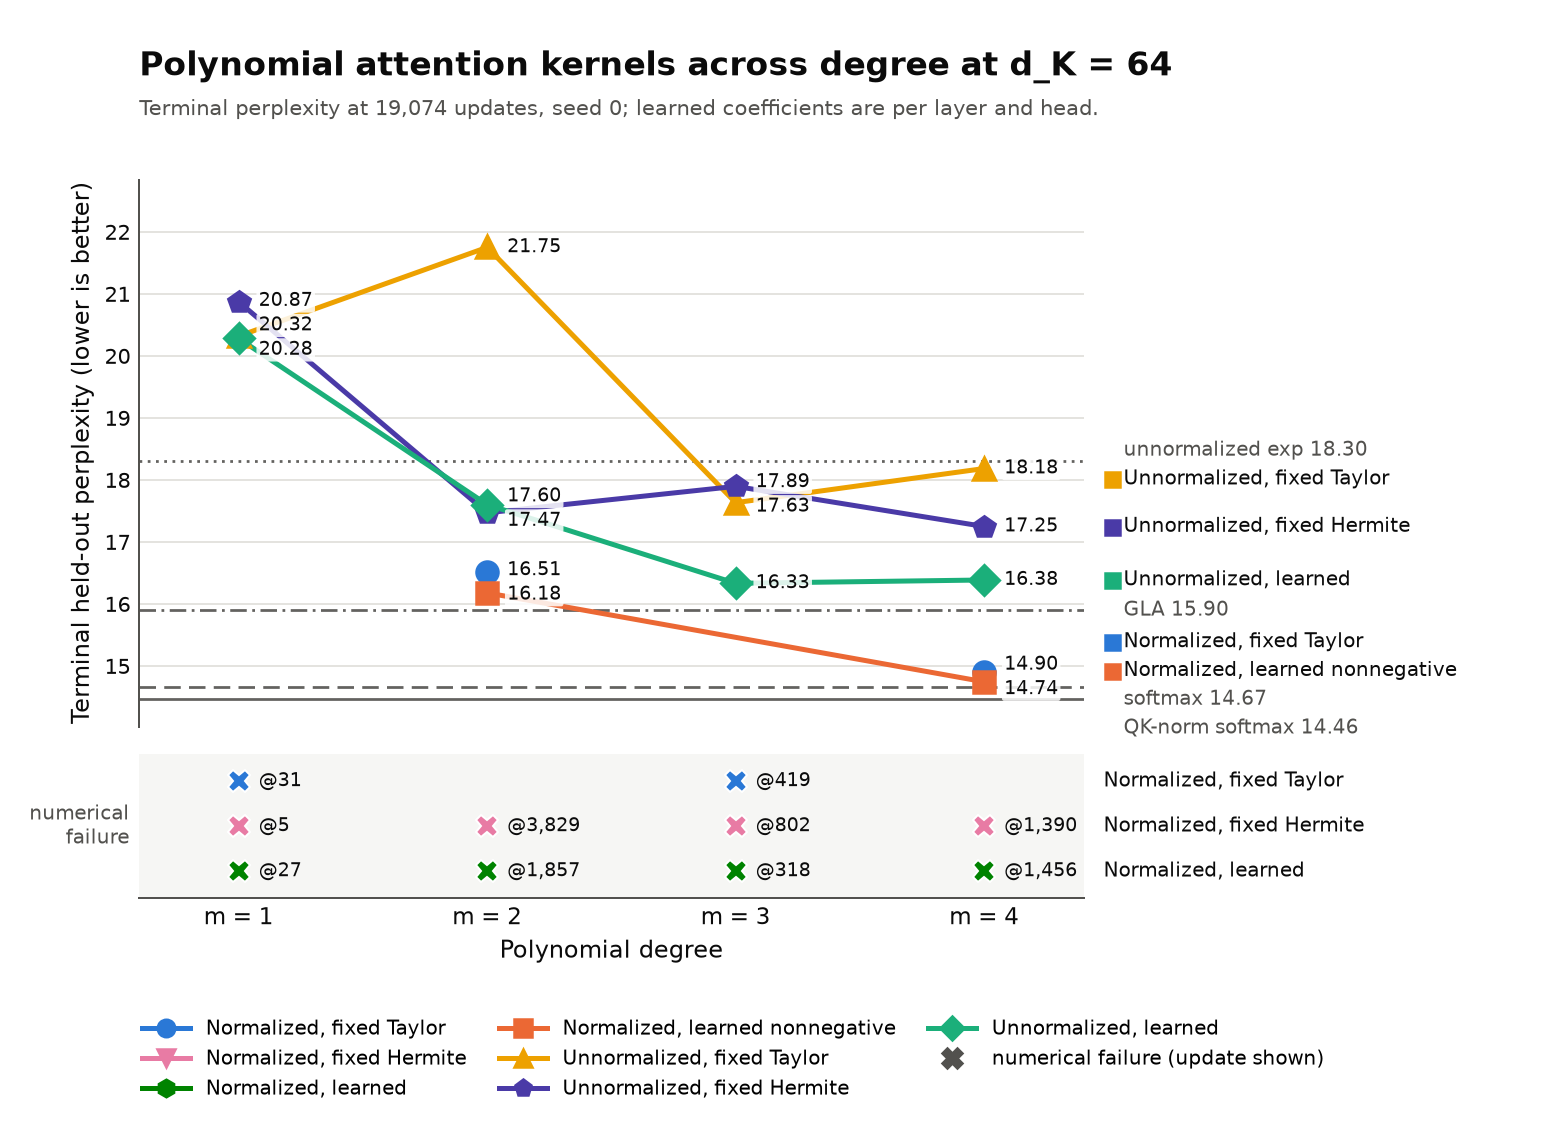
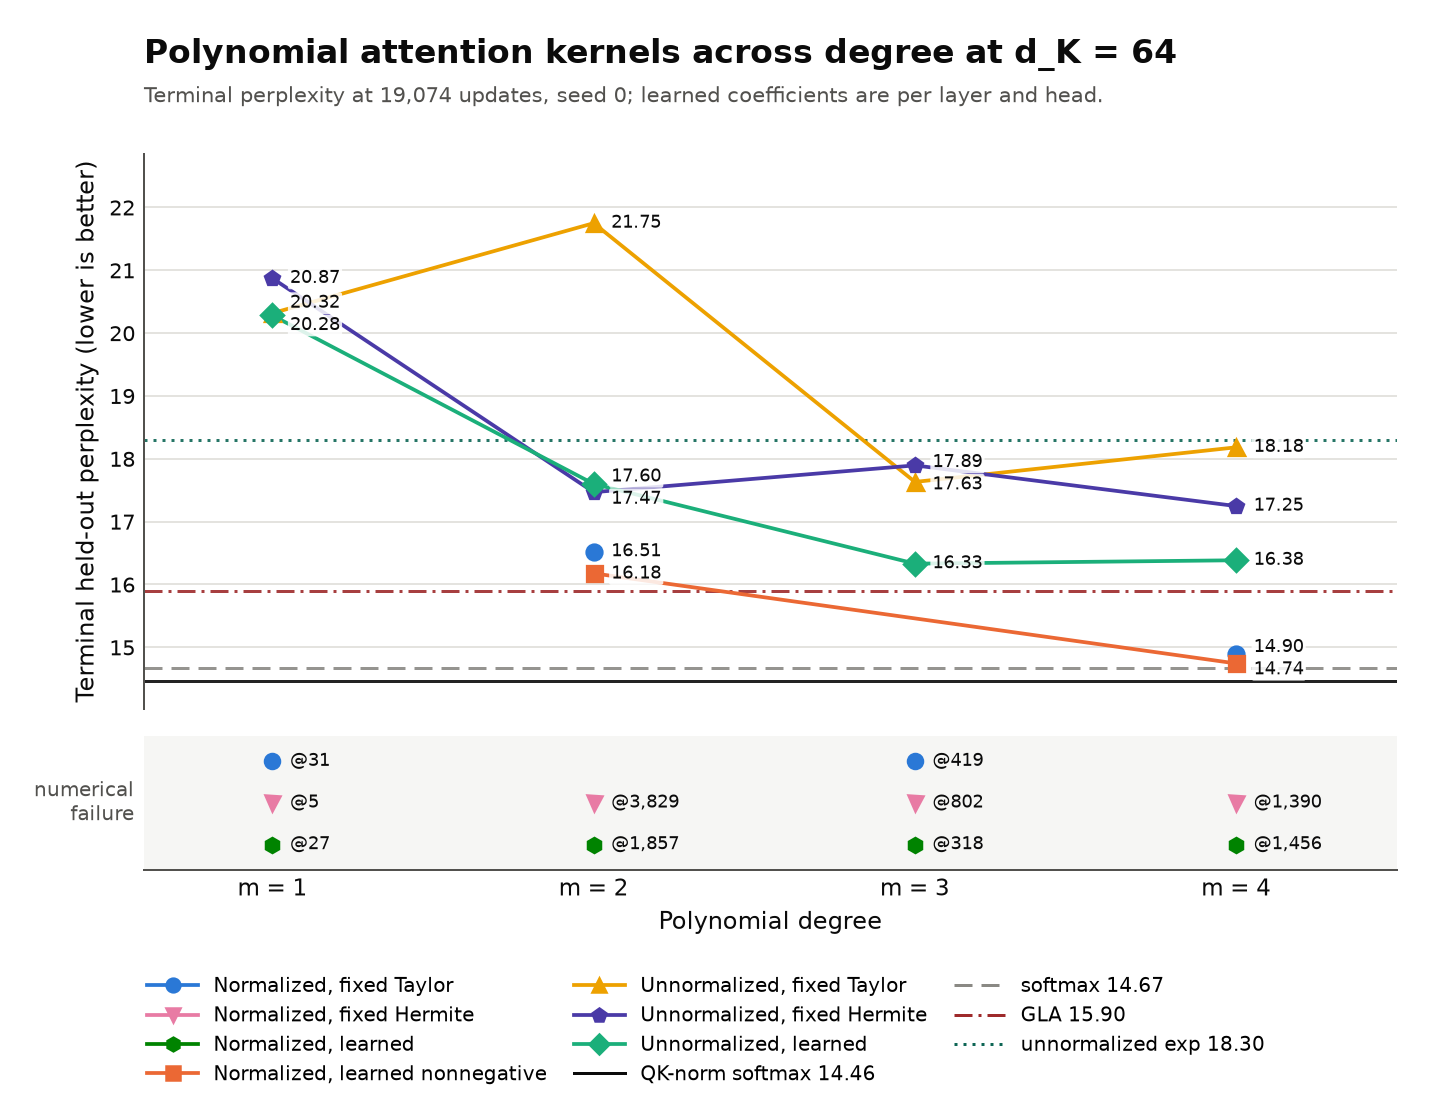
Declutter the degree chart: thinner marks, one legend, colored references
Lines and markers are thinner and smaller. Families and reference
levels are labeled once, in the legend below the chart, instead of in a
right margin, so the axis uses the full width. Reference levels get
distinct dark colors outside the family slots (black, gray, dark red,
dark teal) with their own dashes, and list their values in the legend.
Failures in the strip use their family's marker.

diff --git a/results/attention_scaling/chart.py b/results/attention_scaling/chart.py
@@ -33,8 +33,9 @@ FAMILY_STYLE = {
     "unnormalized_fixed_hermite": ("#4a3aa7", "p"),
 }
 INK, MUTED, GRID, SURFACE = "#0b0b0b", "#52514e", "#e4e3df", "#ffffff"
-REFERENCE_STYLE = {"softmax": "-", "softmax_no_qk_norm": (0, (6, 3)), "unnormalized_exp": (0, (1, 2)),
-                   "gla": (0, (6, 2, 1, 2))}
+# Reference levels: dark hues outside the family slots, each with its own dash as a second cue.
+REFERENCE_STYLE = {"softmax": ("#0b0b0b", "-"), "softmax_no_qk_norm": ("#8a8984", (0, (6, 3))),
+                   "gla": ("#9e2a2b", (0, (6, 2, 1, 2))), "unnormalized_exp": ("#0e6655", (0, (1, 2)))}
 
 
 def _degree(column_id: str) -> int:
@@ -78,37 +79,40 @@ def _build_figure(rows: list[dict], config: dict):
     """Build the figure; kept separate from saving for layout tests."""
     grouped = _by_panel(rows, config)
     families = [panel for panel in config["panels"] if panel["id"] != REFERENCE_PANEL]
-    titles = {panel["id"]: panel["title"] for panel in config["panels"]}
     references = [row for row in grouped.get(REFERENCE_PANEL, []) if row["status"] == "complete"]
     reference_labels = {column["id"]: column["label"]
                         for panel in config["panels"] if panel["id"] == REFERENCE_PANEL for column in panel["columns"]}
     degrees = sorted({_degree(column["id"]) for panel in families for column in panel["columns"]})
-    failures = [(panel["id"], row) for panel in families for row in grouped[panel["id"]]
-                if row["status"] == "numerical_failure"]
     failure_families = [panel["id"] for panel in families
-                        if any(family == panel["id"] for family, _ in failures)]
+                        if any(row["status"] == "numerical_failure" for row in grouped[panel["id"]])]
+    any_legacy = any(row.get("legacy") for row in rows if row["status"] == "complete")
 
     values = [float(row["terminal_ppl"]) for row in rows if row["status"] == "complete"]
     lower, upper = (min(values), max(values)) if values else (0.0, 1.0)
     pad = 0.06 * (upper - lower or 1.0)
 
     strip_rows = max(len(failure_families), 1)
-    figure = plt.figure(figsize=(8.6, 5.4 + 0.28 * strip_rows), facecolor=SURFACE)
-    grid = figure.add_gridspec(2, 1, height_ratios=(5.2, 0.34 * strip_rows + 0.35), hspace=0.08,
-                               left=0.09, right=0.70, top=0.84, bottom=0.2)
+    figure = plt.figure(figsize=(8.0, 5.5 + 0.22 * strip_rows), facecolor=SURFACE)
+    grid = figure.add_gridspec(2, 1, height_ratios=(5.2, 0.3 * strip_rows + 0.35), hspace=0.08,
+                               left=0.1, right=0.97, top=0.86, bottom=0.215)
     axis = figure.add_subplot(grid[0])
     axis.set_gid("chart:perplexity")
     strip = figure.add_subplot(grid[1], sharex=axis)
     strip.set_gid("chart:failures")
 
-    margin_labels: list[tuple[float, str, str, str | None]] = []  # (level, text, text color, marker color)
+    handles = []
+    for panel in families:
+        family = panel["id"]
+        color, marker = FAMILY_STYLE[family]
+        handles.append(Line2D([], [], color=color, marker=marker, linewidth=1.5, markersize=5.5, label=panel["title"]))
     for row in references:
         level = float(row["terminal_ppl"])
         legacy = bool(row.get("legacy"))
-        axis.axhline(level, color=MUTED, linewidth=1.1, linestyle=REFERENCE_STYLE.get(row["column"], "-"),
-                     alpha=0.55 if legacy else 0.9, zorder=1, gid=f"reference:{row['column']}")
+        color, dash = REFERENCE_STYLE.get(row["column"], (MUTED, "-"))
+        axis.axhline(level, color=color, linewidth=1.2, linestyle=dash, alpha=0.5 if legacy else 0.9,
+                     zorder=1, gid=f"reference:{row['column']}")
         label = f"{reference_labels.get(row['column'], row['column'])} {level:.2f}" + (" (legacy)" if legacy else "")
-        margin_labels.append((level, label, MUTED, None))
+        handles.append(Line2D([], [], color=color, linewidth=1.2, linestyle=dash, label=label))
 
     value_labels: dict[int, list[float]] = {}
     for panel in families:
@@ -120,49 +124,38 @@ def _build_figure(rows: list[dict], config: dict):
         for (x0, y0, legacy0), (x1, y1, legacy1) in zip(points, points[1:]):
             if any(x0 < degree < x1 for degree in declared):  # never bridge a failed or missing degree
                 continue
-            axis.plot([x0, x1], [y0, y1], color=color, linewidth=2, zorder=2, solid_capstyle="round",
+            axis.plot([x0, x1], [y0, y1], color=color, linewidth=1.5, zorder=2, solid_capstyle="round",
                       linestyle=(0, (4, 3)) if legacy0 or legacy1 else "-")
         for x, y, legacy in points:
-            axis.plot([x], [y], marker=marker, markersize=8, color=color, markeredgecolor=color,
-                      markerfacecolor=SURFACE if legacy else color, markeredgewidth=1.8, linestyle="none",
+            axis.plot([x], [y], marker=marker, markersize=6, color=color, markeredgecolor=color,
+                      markerfacecolor=SURFACE if legacy else color, markeredgewidth=1.3, linestyle="none",
                       zorder=3, gid=f"point:{family}:m{x}:{'legacy' if legacy else 'current'}")
             value_labels.setdefault(x, []).append(y)
-        if points:
-            margin_labels.append((points[-1][1], titles[family], INK, color))
 
+    # Failures take their family's marker, so the legend identifies each strip row.
     for index, family in enumerate(failure_families):
-        color, _ = FAMILY_STYLE[family]
+        color, marker = FAMILY_STYLE[family]
         y = len(failure_families) - 1 - index
-        strip.annotate(titles[family], (1.0, y), xycoords=("axes fraction", "data"), xytext=(8, 0),
-                       textcoords="offset points", va="center", fontsize=8, color=INK)
-        for failed_family, row in failures:
-            if failed_family != family:
+        for row in grouped[family]:
+            if row["status"] != "numerical_failure":
                 continue
             x = _degree(row["column"])
-            strip.plot([x], [y], marker="X", markersize=9, color=color, markeredgecolor=SURFACE,
-                       markeredgewidth=0.8, linestyle="none", gid=f"failure:{family}:m{x}")
+            strip.plot([x], [y], marker=marker, markersize=6, color=color, linestyle="none",
+                       gid=f"failure:{family}:m{x}")
             step = row.get("failure_step")
-            strip.annotate(f"@{step:,}" if step is not None else "failed", (x, y), xytext=(8, 0),
-                           textcoords="offset points", va="center", fontsize=7.5, color=INK)
+            strip.annotate(f"@{step:,}" if step is not None else "failed", (x, y), xytext=(7, 0),
+                           textcoords="offset points", va="center", fontsize=7, color=INK)
 
-    axis.set_xlim(min(degrees) - 0.4, max(degrees) + 0.4)
+    axis.set_xlim(min(degrees) - 0.4, max(degrees) + 0.5)
     axis.set_ylim(lower - pad, upper + 2.5 * pad)
     height_points = axis.get_window_extent().height * 72 / figure.dpi
-    gap = 11.5 * (axis.get_ylim()[1] - axis.get_ylim()[0]) / height_points
+    gap = 10.5 * (axis.get_ylim()[1] - axis.get_ylim()[0]) / height_points
     # Each value sits to the right of its marker; values at one degree are nudged apart.
     for x, levels in value_labels.items():
         for level, placed in zip(levels, _spread(levels, 0.85 * gap)):
-            axis.annotate(f"{level:.2f}", (x, placed), xytext=(8, 0), textcoords="offset points",
-                          ha="left", va="center", fontsize=7.5, color=INK, zorder=4,
+            axis.annotate(f"{level:.2f}", (x, placed), xytext=(7, 0), textcoords="offset points",
+                          ha="left", va="center", fontsize=7, color=INK, zorder=4,
                           bbox={"boxstyle": "round,pad=0.12", "facecolor": SURFACE, "edgecolor": "none", "alpha": 0.85})
-    # Right-margin labels for every family and reference level, nudged apart to stay legible.
-    for (level, text, text_color, marker_color), placed in zip(
-            margin_labels, _spread([label[0] for label in margin_labels], gap)):
-        if marker_color is not None:
-            axis.plot([1.03], [placed], marker="s", markersize=6, color=marker_color, transform=axis.get_yaxis_transform(),
-                      clip_on=False, linestyle="none")
-        axis.annotate(text, (1.0, placed), xycoords=("axes fraction", "data"), xytext=(16, 0),
-                      textcoords="offset points", va="center", fontsize=8.2, color=text_color, annotation_clip=False)
     axis.set_ylabel("Terminal held-out perplexity (lower is better)", fontsize=9.5, color=INK)
     axis.tick_params(labelbottom=False, colors=MUTED, labelcolor=INK, labelsize=8.5, length=0)
     axis.grid(axis="y", color=GRID, linewidth=0.8)
@@ -185,21 +178,16 @@ def _build_figure(rows: list[dict], config: dict):
         strip.annotate("none", (0.5, 0.5), xycoords="axes fraction", ha="center", va="center",
                        fontsize=8, color=MUTED)
 
-    figure.text(0.09, 0.955, config.get("title", "Polynomial attention kernels across degree"),
+    figure.text(0.1, 0.965, config.get("title", "Polynomial attention kernels across degree"),
                 fontsize=13, weight="bold", color=INK, va="top")
-    any_legacy = any(row.get("legacy") for row in rows if row["status"] == "complete")
-    figure.text(0.09, 0.915, "Terminal perplexity at 19,074 updates, seed 0; learned coefficients are per layer and head."
-                + ("\nHollow points and dashed lines are legacy runs (weight decay on all parameters, no QK-norm),\n"
-                   "replaced when rerun." if any_legacy else ""), fontsize=8.5, color=MUTED, va="top", linespacing=1.3)
-    handles = [Line2D([], [], color=FAMILY_STYLE[panel["id"]][0], marker=FAMILY_STYLE[panel["id"]][1],
-                      linewidth=2, markersize=7, label=panel["title"]) for panel in families]
+    figure.text(0.1, 0.925, "Terminal perplexity at 19,074 updates, seed 0; learned coefficients are per layer and head."
+                + ("\nHollow points and dashed lines are legacy runs (weight decay on all parameters, no QK-norm)."
+                   if any_legacy else ""), fontsize=8.5, color=MUTED, va="top", linespacing=1.3)
     if any_legacy:
-        handles.append(Line2D([], [], color=MUTED, marker="o", markerfacecolor=SURFACE, linewidth=1.5,
-                              linestyle=(0, (4, 3)), markersize=7, label="legacy run (to be rerun)"))
-    handles.append(Line2D([], [], color=MUTED, marker="X", linestyle="none", markersize=8,
-                          label="numerical failure (update shown)"))
-    figure.legend(handles=handles, loc="lower left", bbox_to_anchor=(0.08, 0.005), ncol=3, frameon=False,
-                  fontsize=8, columnspacing=1.6, handlelength=2.4)
+        handles.append(Line2D([], [], color=MUTED, marker="o", markerfacecolor=SURFACE, linewidth=1.2,
+                              linestyle=(0, (4, 3)), markersize=5.5, label="legacy run (to be rerun)"))
+    figure.legend(handles=handles, loc="lower left", bbox_to_anchor=(0.09, 0.005), ncol=3, frameon=False,
+                  fontsize=7.8, columnspacing=1.4, handlelength=2.6)
     return figure
 
 

diff --git a/results/attention_scaling/tests/test_chart.py b/results/attention_scaling/tests/test_chart.py
@@ -66,7 +66,7 @@ def test_unknown_family_and_coordinate_are_rejected():
         _build_figure([*ROWS, _row("normalized_nonnegative", "m3", value=1.0)], _config())
 
 
-def test_margin_labels_are_spread_apart():
+def test_value_labels_are_spread_apart():
     placed = _spread([14.46, 14.67, 16.2], gap=0.5)
     assert placed[1] - placed[0] >= 0.5 - 1e-9 and placed[2] - placed[1] >= 0.5 - 1e-9
     assert _spread([10.0, 20.0], gap=1.0) == [10.0, 20.0]
